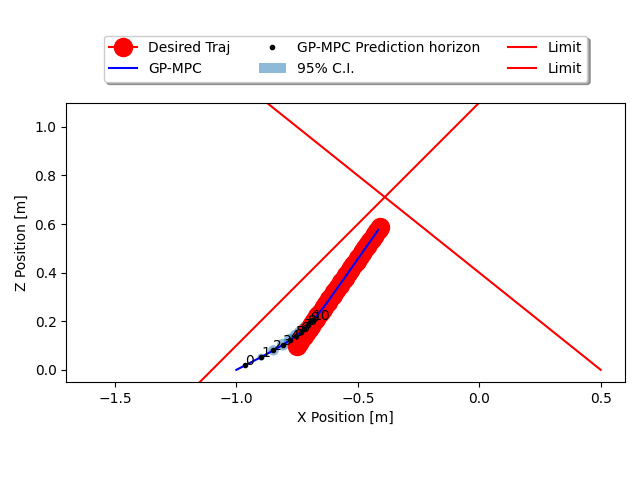
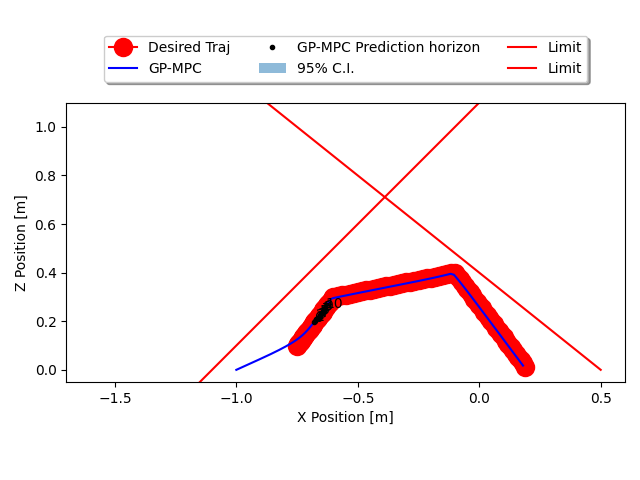
trajectory tracking is working now with GP-MPC

Changed region(s): [[0.375, 0.4375, 0.8438, 0.7812]]

diff --git a/safe_control_gym/envs/benchmark_env.py b/safe_control_gym/envs/benchmark_env.py
@@ -667,24 +667,48 @@ class BenchmarkEnv(gym.Env):
         #     coords_a_dot = 0
         #     coords_b_dot = 0
 
-        traj_length = np.sqrt((-0.4 + 0.75) ** 2 + (0.6 - 0.1) ** 2)
-        T1 = 5
-        T2 = 50
+
+        # T1 = 5
+        # T2 = 50
+        # if t < T1:
+        #     coords_a = 0.1 + t * 0.5 / T1
+        #     coords_b = -0.75 + t * 0.35 / T1
+        #     coords_a_dot = 0.5 / T1
+        #     coords_b_dot = 0.35 / T1
+        # elif t < T2:
+        #     coords_a = 0.6 - (t-T1)*0.55/T2
+        #     coords_b = -0.4 + (t-T1)*0.65/T2
+        #     coords_a_dot = -0.55/T2
+        #     coords_b_dot = 0.65/T2
+        # else:
+        #     coords_a = 0.6 - (T2-T1)*0.55/T2
+        #     coords_b = -0.4 + (T2-T1)*0.65/T2
+        #     coords_a_dot = -0.55/T2
+        #     coords_b_dot = 0.65/T2
+
+        T1 = 4
+        T2 = 3
+        T3 = 3
         if t < T1:
-            coords_a = 0.1 + t * 0.5 / T1
-            coords_b = -0.75 + t * 0.35 / T1
-            coords_a_dot = 0.5 / T1
-            coords_b_dot = 0.35 / T1
-        elif t < T2:
-            coords_a = 0.6 - (t-T1)*0.55/T2
-            coords_b = -0.4 + (t-T1)*0.65/T2
-            coords_a_dot = -0.55/T2
-            coords_b_dot = 0.65/T2
+            coords_b = -0.75 + t * 0.15 / T1
+            coords_a = 0.1 + t * 0.2 / T1
+            coords_b_dot = 0.15 / T1
+            coords_a_dot = 0.2 / T1
+        elif t < T1+T2:
+            coords_b = -0.6 + (t-T1)*0.5/T2
+            coords_a = 0.3 + (t-T1)*0.1/T2
+            coords_b_dot = 0.5/T2
+            coords_a_dot = 0.1/T2
+        elif t < T1+T2+T3:
+            coords_b = -0.1 + (t-T2-T1)*0.3/T3
+            coords_a = 0.4 - (t-T2-T1)*0.4/T3
+            coords_b_dot = 0.3/T3
+            coords_a_dot = -0.4/T3
         else:
-            coords_a = 0.6 - (T2-T1)*0.55/T2
-            coords_b = -0.4 + (T2-T1)*0.65/T2
-            coords_a_dot = -0.55/T2
-            coords_b_dot = 0.65/T2
+            coords_b = -0.1 + (T3)*0.3/T3
+            coords_a = 0.4 - (T3)*0.4/T3
+            coords_b_dot = 0.3/T3
+            coords_a_dot = -0.4/T3
 
         return coords_a, coords_b, coords_a_dot, coords_b_dot
 

diff --git a/experiments/annual_reviews/figure6/gp_mpc_experiment_hexarotor_tracking.py b/experiments/annual_reviews/figure6/gp_mpc_experiment_hexarotor_tracking.py
@@ -186,7 +186,7 @@ if __name__ == "__main__":
         # Run with the learned gp model.
 
         run_results = ctrl.run(env=test_env,
-                               max_steps=50)
+                               max_steps=100)
         ctrl.close()
         # Plot the results.
         #prior_run = munch.munchify(prior_results)
